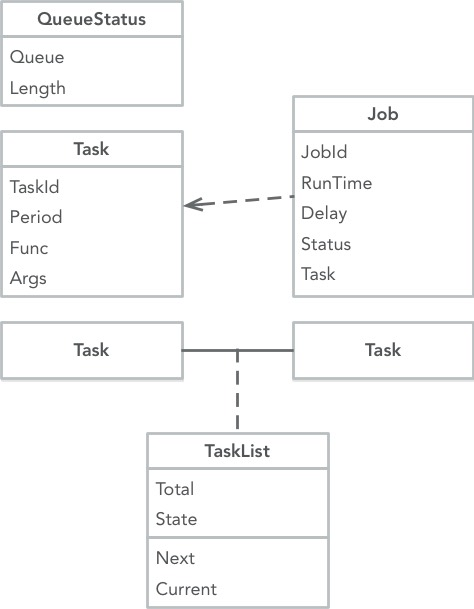
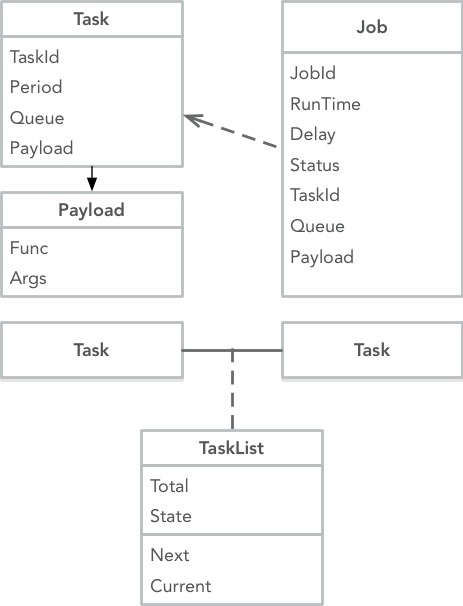
readme

diff --git a/design/README.md b/design/README.md
@@ -10,4 +10,26 @@
 
 ## Saver Design
 
-![saver-design](https://rawgit.com/amlun/linda/master/design/linda-saver-design.jpg)
+### Table Tasks
+
+| field | type | description |
+|:-------|:--------|:--------|
+|task_id|text|the identify of the task|
+|args|list<text>|runtime args of the task|
+|create_time|time|the task created time|
+|func|text|the task runtime func name|
+|period|int|scheduled time of seconds|
+|queue|text|job will enqueue in this queue name|
+
+
+### Table Jobs
+
+| field | type | description |
+|:-------|:--------|:--------|
+|job_id|text|the identify of the job|
+|args|list<text>|runtime args of the job|
+|func|text|the job runtime func name|
+|queue|text|job queue name|
+|run_time|time|the job created time|
+|status|int|the job status|
+|task_id|text|source of the task id|

diff --git a/README.md b/README.md
@@ -105,7 +105,7 @@ Use
 
 `go run apps/scheduler.go`
 
-to start scheduler to schedule the periodic task.
+to start scheduler to schedule the periodic tasks.
 
 
 ### API Doc
